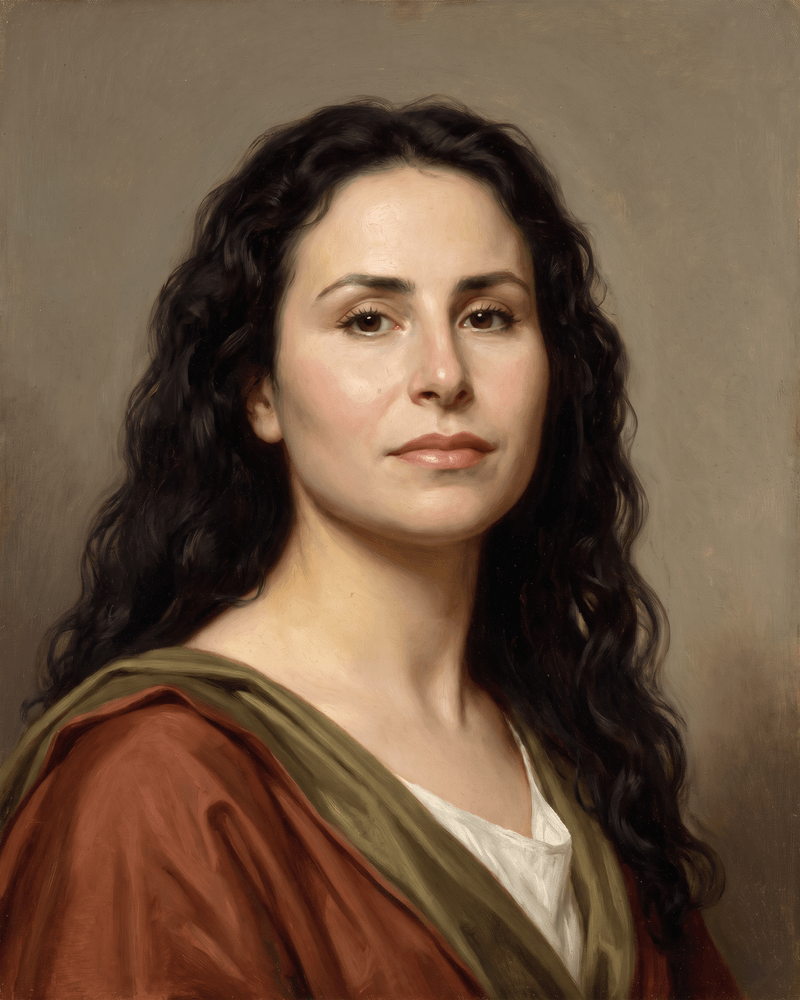
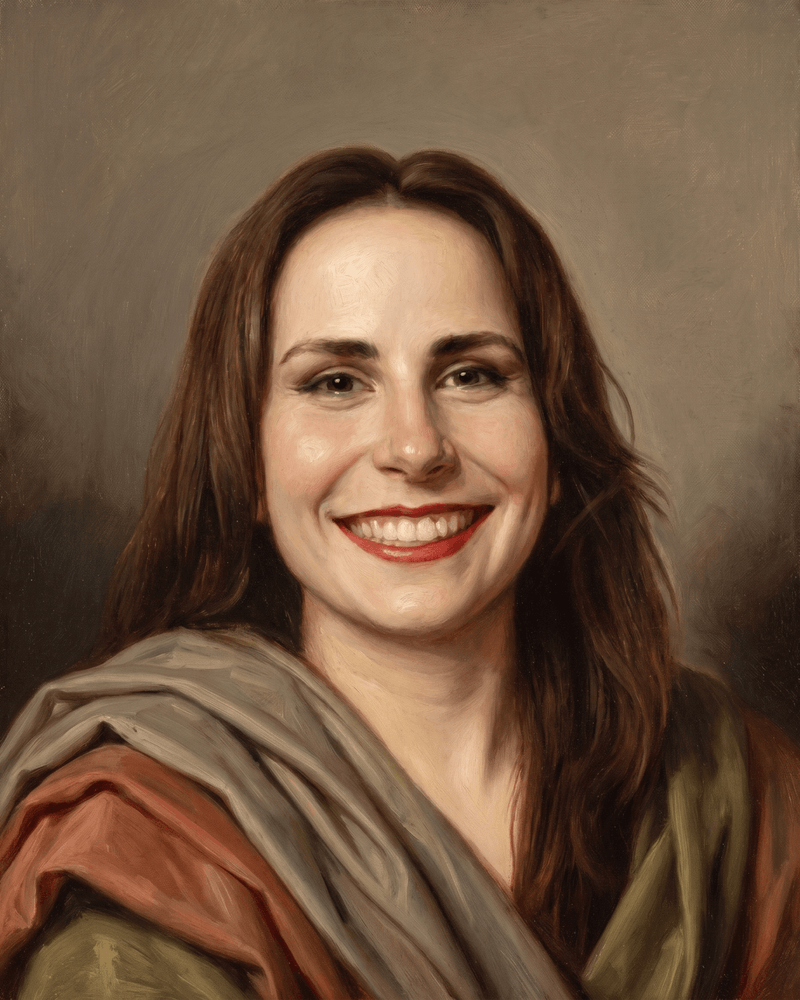
Burcu Özdemir's portrait is straightened rather than repainted (#8)
Six attempts from four photographs — full-length, road, night flash,
bar — and the one the host section preferred was the first, made
before any of this. It has her expression. What it did not have was
the pose: she sat tilted and turned while the other fifteen sit square
to the viewer, and on a wall of sixteen that is what the eye catches.

So it is not repainted. The finished portrait goes back in as the
reference and the note changes only the pose. The likeness survives
because it is carried rather than derived a second time — every
attempt that went back to a photograph paid for the new pose with the
expression, and this one did not.

That technique is written into docs/art-direction.md, because it
generalises: any portrait with the likeness but the wrong framing can
be straightened this way. It also replaces the beautify note that was
recorded here two commits ago — that override is no longer in use, so
the template's "do not idealise, do not beautify" now stands unbroken
across all sixteen.

Claude-Session: https://claude.ai/code/session_016HzvPiGZfjWCBGEdYtvgmg

diff --git a/docs/art-direction.md b/docs/art-direction.md
@@ -235,7 +235,9 @@ The bolded sentence exists because the shared style block asks for "idealised an
 A note is for where the photograph misleads about the person, and the two that exist earn their place:
 
 - **`furkan-ucar`** — his photograph is taken in a cap, so the model had nothing above the eyebrows and invented ginger hair and a full beard. The note says he is bald.
-- **`burcu-ozdemir`** — two things. Her hair is long and curly and every take cropped or tied it; "bare neck" in the template appears to pull that way. And the note asks for light makeup and a becoming light, **which deliberately contradicts the template's "do not idealise, do not beautify"**. That was a decision taken with the host section, not a drift: the unbeautified take read gaunt and older than she is, which is its own kind of unlikeness. Do not quietly revert it — and do not generalise it, because that bolded sentence is still what protects the other fifteen.
+- **`burcu-ozdemir`** — the note fixes her pose, not her face; see "A finished portrait can be the reference" below. Six attempts from four different photographs all lost either the expression or the hair, and the one everybody preferred turned out to be the very first, which only needed straightening.
+
+**A finished portrait can be the reference.** Where a painting has the likeness but the sitter is turned, tilted or off-centre, hand that painting back in as the reference and let the note change only the pose: face the viewer square on, head level, shoulders even, centred. The likeness survives because it is no longer being derived a second time — it is being carried. This is how `burcu-ozdemir` reached the wall: her original portrait was the warmest of six attempts and the only one anybody preferred, but she sat tilted and turned while the other fifteen sit straight. Repainting from photographs kept costing the expression; reposing the painting cost nothing.
 
 A note steers a painting back towards the person. It is not a licence to change someone into somebody else, and it never removes the approval in `docs/adr/0002-ai-generated-oc-portraits.md` — the member sees the finished portrait and says yes, note or no note.
 
